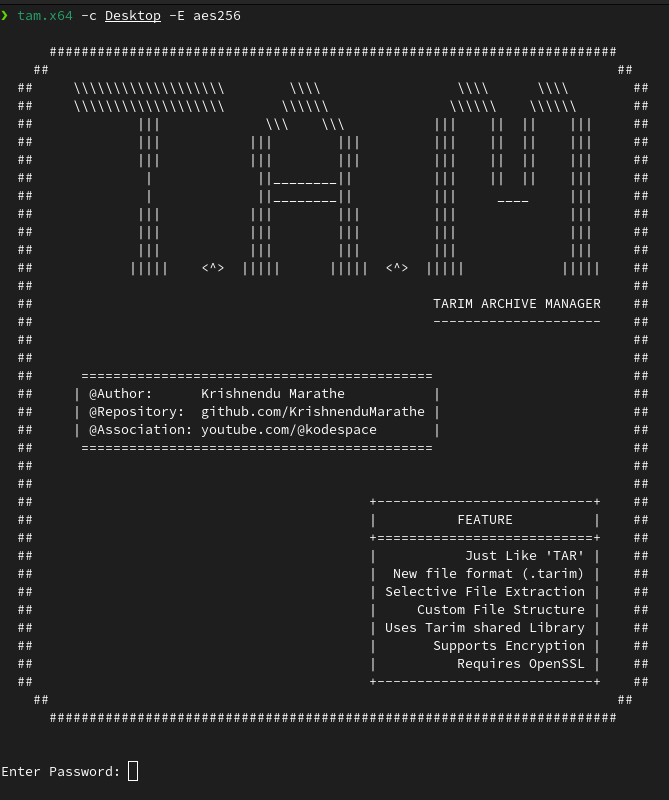
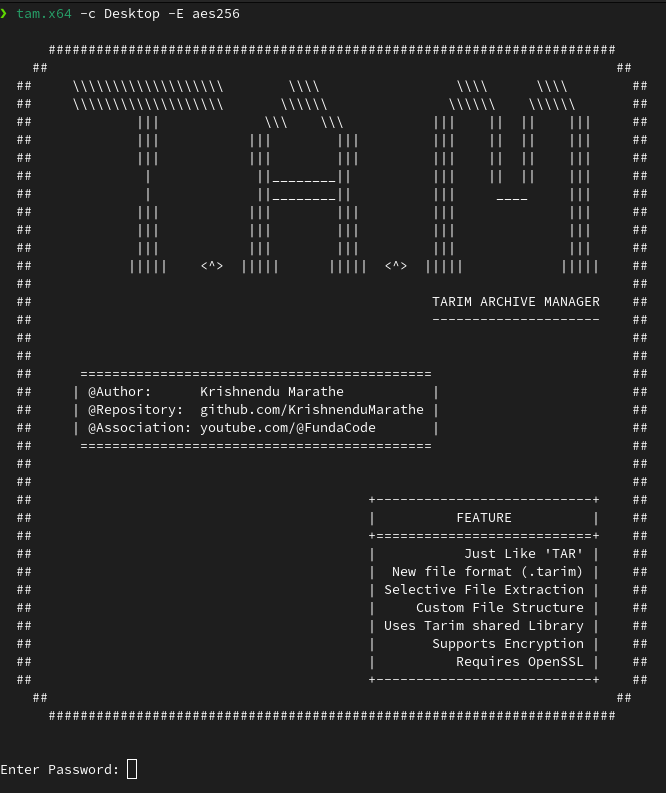
release 1.0

diff --git a/src/tam-src/tam.c b/src/tam-src/tam.c
@@ -50,7 +50,7 @@ void ascii_art()
  ##      ============================================                         ##\n \
  ##     | @Author:      Krishnendu Marathe           |                        ##\n \
  ##     | @Repository:  github.com/KrishnenduMarathe |                        ##\n \
- ##     | @Association: youtube.com/@kodespace       |                        ##\n \
+ ##     | @Association: youtube.com/@FundaCode       |                        ##\n \
  ##      ============================================                         ##\n \
  ##                                                                           ##\n \
  ##                                                                           ##\n \

diff --git a/README.md b/README.md
@@ -42,7 +42,7 @@
 	*-> Linux*
 		1. Extract the binaries from the archive provided with the release
 		2. Move "tam.x64" to /usr/local/bin
-		3. Move "libtarim.so" to /usr/local/lib
+		3. Move "libtarim.x64.so" to /usr/local/lib
 
 
 ## *Build Instructions*
